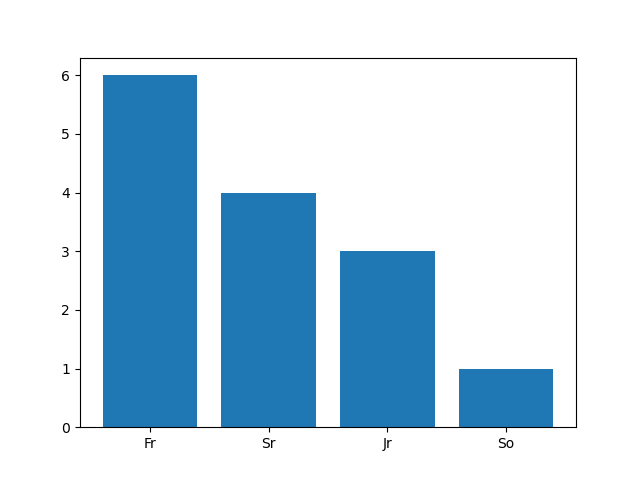
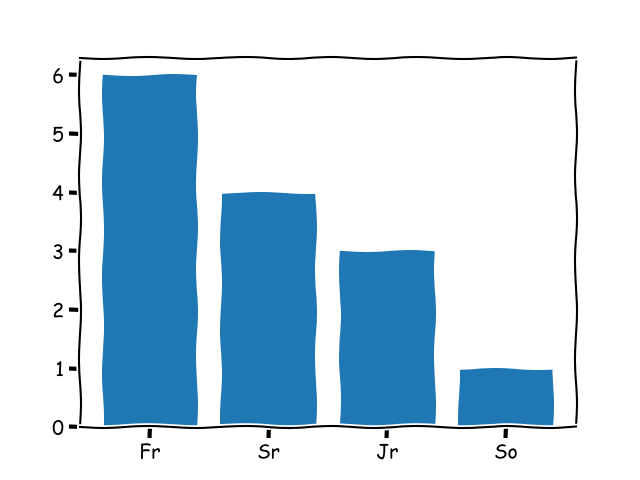
finish hist

diff --git a/VisualizationFun/main.py b/VisualizationFun/main.py
@@ -40,6 +40,16 @@ def bar_chart_example(x_ser, y_ser):
     plt.bar(x_ser, y_ser)
     plt.savefig("bar_example.png")
 
+def pie_chart_example(x_ser, y_ser):
+    plt.figure() # to create a new "current" figure
+    plt.pie(y_ser, labels=x_ser, autopct="%.2f%%")
+    plt.savefig("pie_example.png")
+
+def histogram_chart_example(x_ser):
+    plt.figure() # to create a new "current" figure
+    plt.hist(x_ser, bins=5) # default is 10 bins
+    plt.savefig("histogram_example.png")
+
 def main():
     df =  pd.read_csv("bball.csv", index_col=0)
     print(df)
@@ -104,10 +114,18 @@ def main():
     # A. pts per player data
     # B. count of each class (Sr, Jr, ...)
     # bar_chart_example(df.index, df["PTS"])
+    plt.xkcd()
     bar_chart_example(class_counts_ser.index, class_counts_ser)
 
     # 3. pie 
+    pie_chart_example(class_counts_ser.index, class_counts_ser)
+    
     # 4. histogram
+    # showing the distribution of a numeric attribute
+    # by showing the counts of values for "bins" number of 
+    # equal width bins
+    histogram_chart_example(df["MIN"])
+
     # 5. (later) box plot
 
 main()
